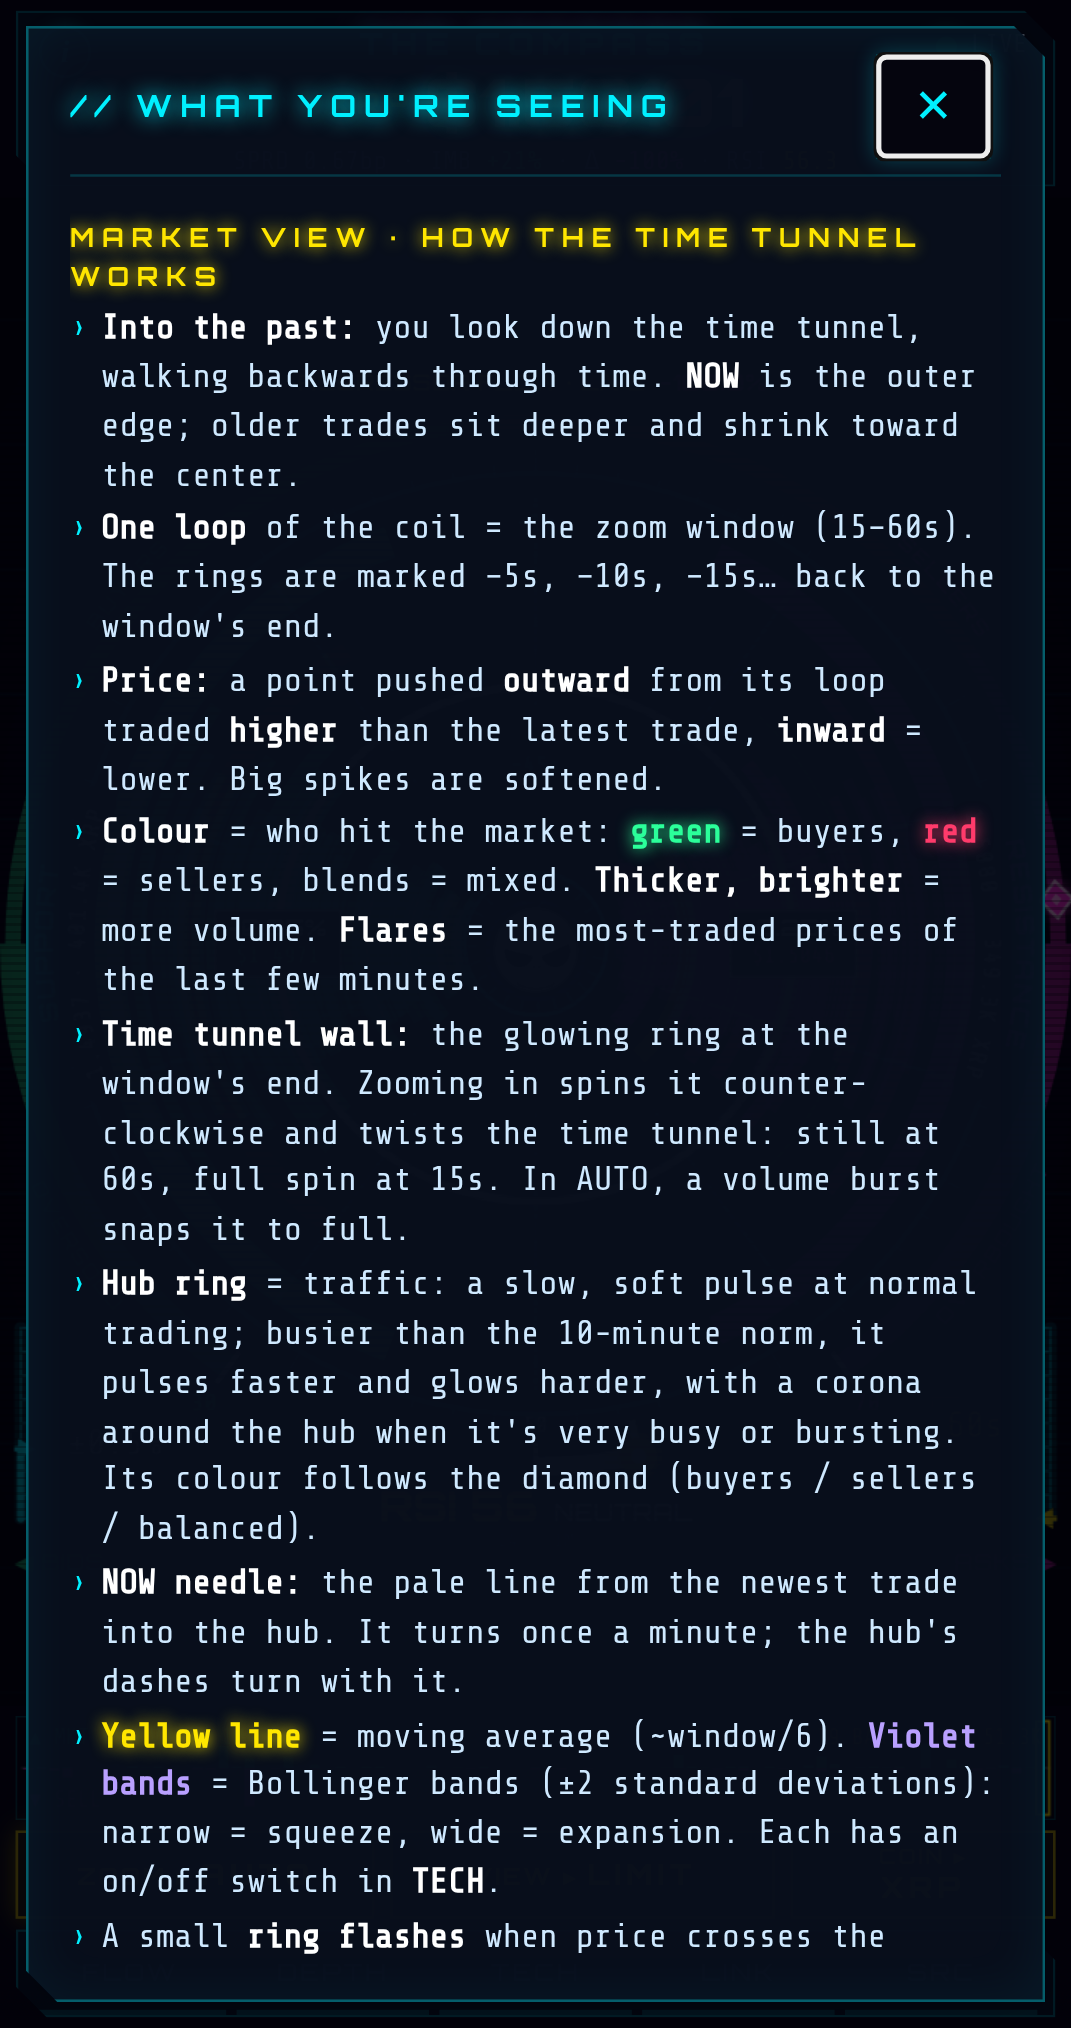
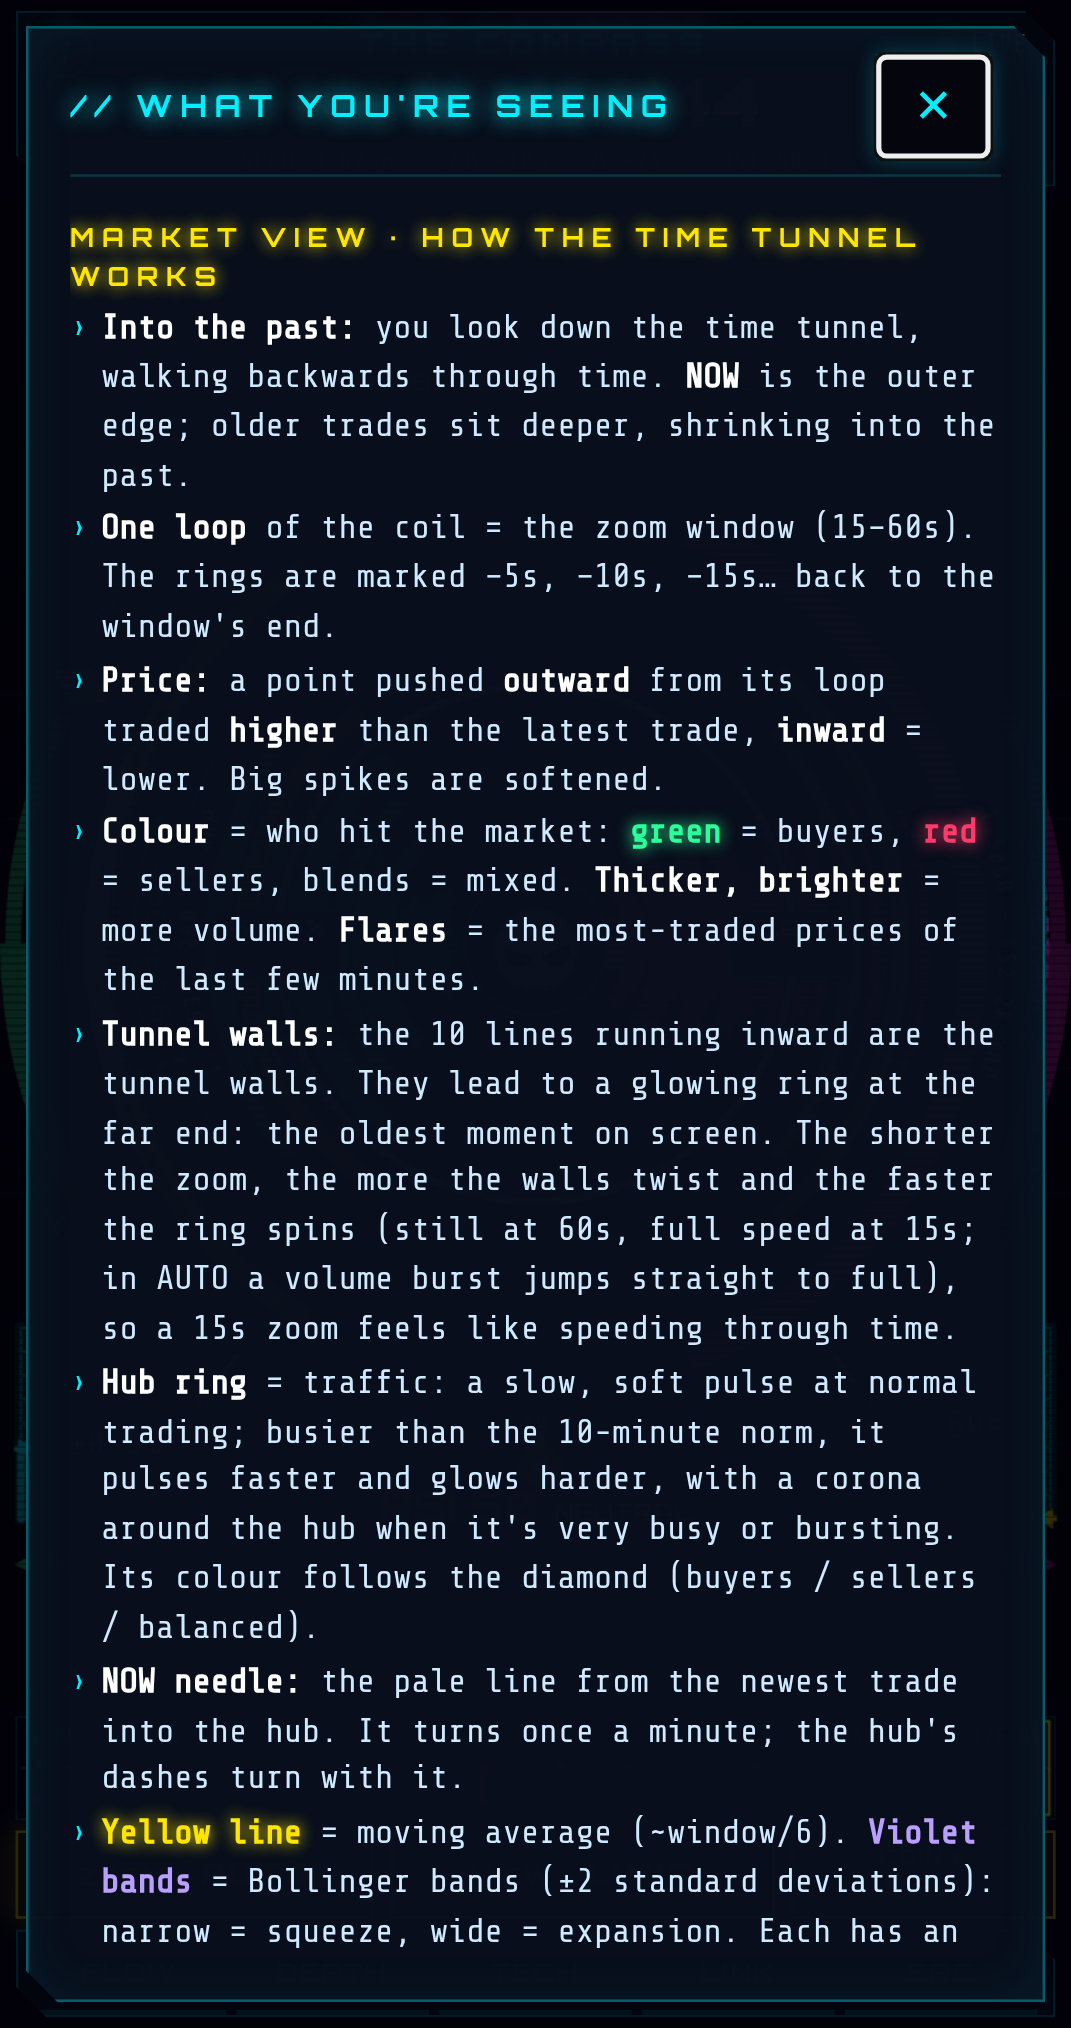
Build 20261004-0800: info text fixes (time tunnel walls), brighter Bollinger bands

diff --git a/index.html b/index.html
@@ -3,7 +3,7 @@
 <head>
 <meta charset="utf-8">
 <meta http-equiv="Cache-Control" content="no-cache, no-store, must-revalidate"><meta http-equiv="Pragma" content="no-cache"><meta http-equiv="Expires" content="0">
-<script>window.OFC_BUILD='20261004-0700';try{localStorage.removeItem('ofc.trail')}catch(e){};(function(){try{if(!/^https?:/.test(location.protocol))return;fetch(location.pathname+'?_='+Date.now(),{cache:'no-store'}).then(r=>r.text()).then(t=>{const m=t.match(/OFC_BUILD='([^']+)'/);if(m&&m[1]!==window.OFC_BUILD&&sessionStorage.getItem('ofcB')!==m[1]){sessionStorage.setItem('ofcB',m[1]);location.replace(location.pathname+'?v='+m[1]+location.hash);}}).catch(()=>{});}catch(e){}})();</script>
+<script>window.OFC_BUILD='20261004-0800';try{localStorage.removeItem('ofc.trail')}catch(e){};(function(){try{if(!/^https?:/.test(location.protocol))return;fetch(location.pathname+'?_='+Date.now(),{cache:'no-store'}).then(r=>r.text()).then(t=>{const m=t.match(/OFC_BUILD='([^']+)'/);if(m&&m[1]!==window.OFC_BUILD&&sessionStorage.getItem('ofcB')!==m[1]){sessionStorage.setItem('ofcB',m[1]);location.replace(location.pathname+'?v='+m[1]+location.hash);}}).catch(()=>{});}catch(e){}})();</script>
 <script>/* viewport height guard: Android standalone PWAs can report a stale/too-tall 100dvh right after a reload (e.g. coin switch) -> size from the smallest sane measurement and keep re-checking */
 (function(){var R=document.documentElement;function m(){var v=window.visualViewport,c=[window.innerHeight,R.clientHeight];if(v&&v.height>0)c.push(v.height);c=c.filter(function(x){return x>100;});if(!c.length)return;
   var h=Math.round(Math.min.apply(null,c))+'px';if(R.style.getPropertyValue('--apph')!==h){R.style.setProperty('--apph',h);try{window.dispatchEvent(new Event('ofc-vh'));}catch(e){}}}
@@ -192,11 +192,11 @@ body.hublogo #top .logo{display:none}   /* mobile: logo lives in the compass hub
  <div id="infoHd"><h2 id="infoT">// WHAT YOU'RE SEEING</h2><button id="infoX" aria-label="close">✕</button></div>
  <div id="infoBody">
  <h3>MARKET VIEW · HOW THE TIME TUNNEL WORKS</h3>
- <ul><li><b>Into the past:</b> you look down the time tunnel, walking backwards through time. <b>NOW</b> is the outer edge; older trades sit deeper and shrink toward the center.</li>
+ <ul><li><b>Into the past:</b> you look down the time tunnel, walking backwards through time. <b>NOW</b> is the outer edge; older trades sit deeper, shrinking into the past.</li>
  <li><b>One loop</b> of the coil = the zoom window (15–60s). The rings are marked −5s, −10s, −15s… back to the window's end.</li>
  <li><b>Price:</b> a point pushed <b>outward</b> from its loop traded <b>higher</b> than the latest trade, <b>inward</b> = lower. Big spikes are softened.</li>
  <li><b>Colour</b> = who hit the market: <b class="gr">green</b> = buyers, <b class="rd">red</b> = sellers, blends = mixed. <b>Thicker, brighter</b> = more volume. <b>Flares</b> = the most-traded prices of the last few minutes.</li>
- <li><b>Time tunnel wall:</b> the glowing ring at the window's end. Zooming in spins it counter-clockwise and twists the time tunnel: still at 60s, full spin at 15s. In AUTO, a volume burst snaps it to full.</li>
+ <li><b>Tunnel walls:</b> the 10 lines running inward are the tunnel walls. They lead to a glowing ring at the far end: the oldest moment on screen. The shorter the zoom, the more the walls twist and the faster the ring spins (still at 60s, full speed at 15s; in AUTO a volume burst jumps straight to full), so a 15s zoom feels like speeding through time.</li>
  <li><b>Hub ring</b> = traffic: a slow, soft pulse at normal trading; busier than the 10-minute norm, it pulses faster and glows harder, with a corona around the hub when it's very busy or bursting. Its colour follows the diamond (buyers / sellers / balanced).</li>
  <li><b>NOW needle:</b> the pale line from the newest trade into the hub. It turns once a minute; the hub's dashes turn with it.</li>
  <li><b class="yl">Yellow line</b> = moving average (~window/6). <b class="vi">Violet bands</b> = Bollinger bands (±2 standard deviations): narrow = squeeze, wide = expansion. Each has an on/off switch in <b>TECH</b>.</li>
@@ -1727,10 +1727,10 @@ function drawTrail(now){
     const MS=Math.max(2,SUB),Q2=[];for(let a=0;a<NW;a++)for(let j=0;j<MS;j++)Q2.push(pt(a+j/MS,maAt));Q2.push(pt(NW,maAt));
     // Bollinger bands (soft violet so they read apart from the yellow MA): EMA ± 2 SD on the same spiral/price scale; very light fill + faint thin edges, behind the MA and the trail
     CPT=[];if(SHOWBB){const QU=[],QL=[];for(let a=0;a<NW;a++)for(let j=0;j<MS;j++){QU.push(pt(a+j/MS,upAt));QL.push(pt(a+j/MS,loAt));}QU.push(pt(NW,upAt));QL.push(pt(NW,loAt));CPT=[[QU[0],'200,175,255'],[QL[0],'200,175,255']];
-      for(let i=0;i+MS<QU.length;i+=MS){const u=Q2[i].u;if(u<=0.02)continue;ctx.fillStyle=`rgba(165,135,255,${((WIDE?0.08:0.11)*Math.pow(u,0.9)).toFixed(3)})`;ctx.beginPath();
+      for(let i=0;i+MS<QU.length;i+=MS){const u=Q2[i].u;if(u<=0.02)continue;ctx.fillStyle=`rgba(165,135,255,${((WIDE?0.115:0.155)*Math.pow(u,0.9)).toFixed(3)})`;ctx.beginPath();
         ctx.moveTo(QU[i].x,QU[i].y);for(let j=1;j<=MS;j++)ctx.lineTo(QU[i+j].x,QU[i+j].y);for(let j=MS;j>=0;j--)ctx.lineTo(QL[i+j].x,QL[i+j].y);ctx.closePath();ctx.fill();}
-      ctx.lineWidth=WIDE?1:0.9;ctx.shadowBlur=0;
-      for(const QB of [QU,QL])for(let i=0;i+MS<QB.length;i+=MS){const u=Q2[i].u;if(u<=0.02)continue;ctx.strokeStyle=`rgba(185,160,255,${((WIDE?0.44:0.52)*Math.pow(u,0.8)).toFixed(3)})`;
+      ctx.lineWidth=WIDE?1:0.9;ctx.shadowColor='rgba(175,145,255,.8)';ctx.shadowBlur=Q>0?(WIDE?5:4):0;   // soft violet edge glow
+      for(const QB of [QU,QL])for(let i=0;i+MS<QB.length;i+=MS){const u=Q2[i].u;if(u<=0.02)continue;ctx.strokeStyle=`rgba(185,160,255,${((WIDE?0.62:0.72)*Math.pow(u,0.8)).toFixed(3)})`;
         ctx.beginPath();ctx.moveTo(QB[i].x,QB[i].y);for(let j=1;j<=MS;j++)ctx.lineTo(QB[i+j].x,QB[i+j].y);ctx.stroke();}}
     const maSeg=(i)=>{ctx.beginPath();ctx.moveTo(Q2[i].x,Q2[i].y);for(let j=1;j<=MS;j++)ctx.lineTo(Q2[i+j].x,Q2[i+j].y);ctx.stroke();};
     if(SHOWMA)for(const [lw,blur,col,am] of [[(WIDE?1.5:1.3)+2,0,'5,3,12',0.55],[WIDE?1.5:1.3,Q>0?8:0,'255,226,90',0.8]]){ctx.lineWidth=lw;ctx.shadowColor='rgba(255,215,50,.9)';ctx.shadowBlur=blur;   // dark keyline, then the dim yellow ghost
